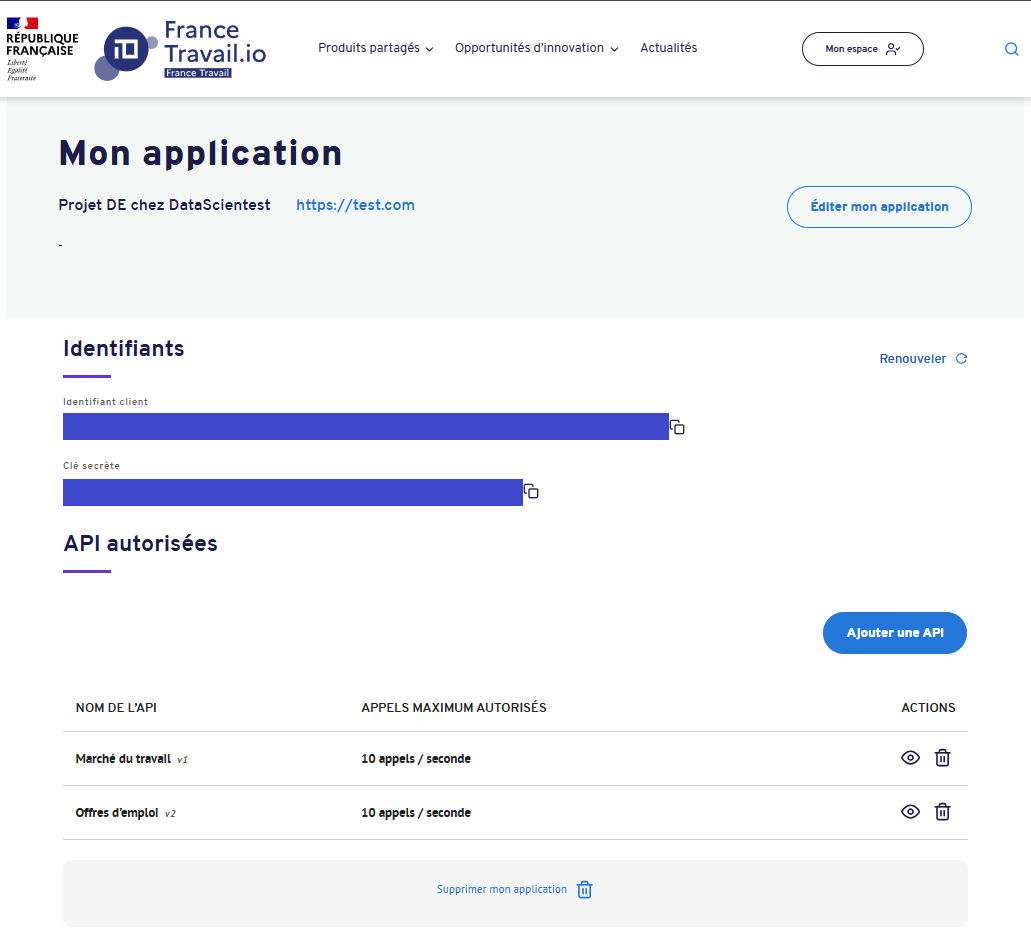
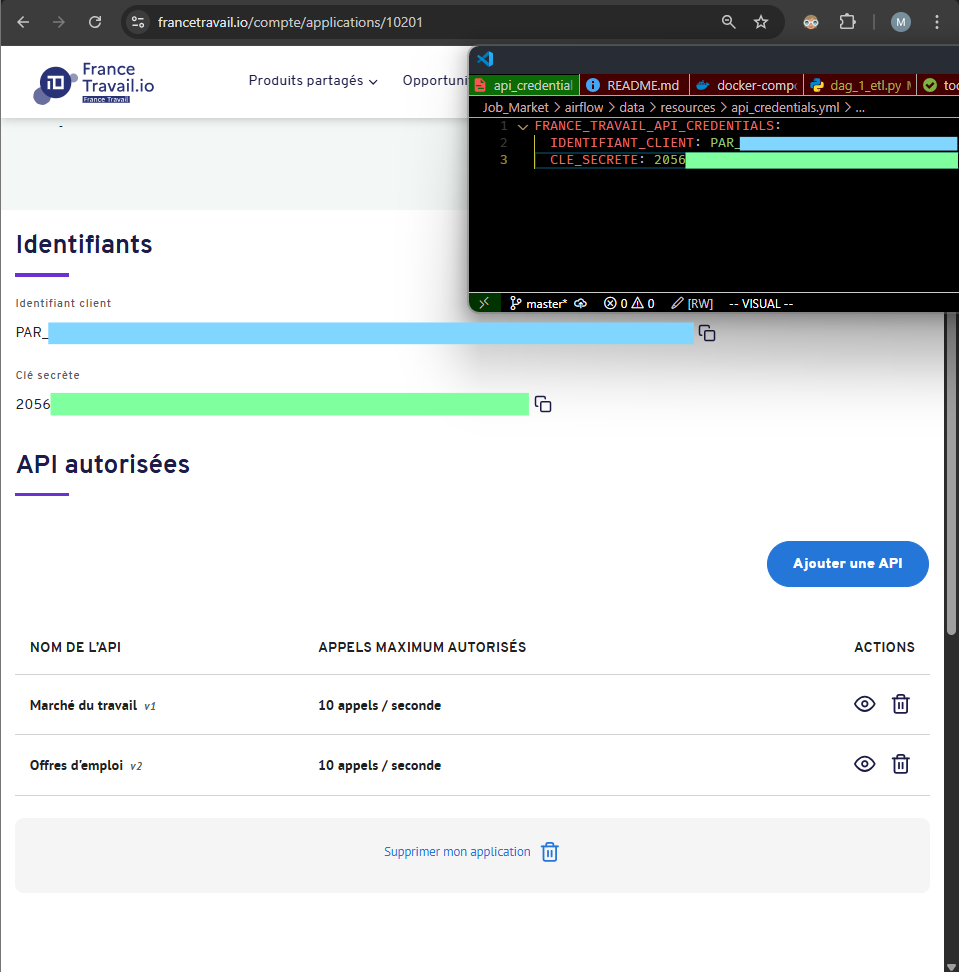
update readme suite à l'upgrade de airflow 3.0.3

diff --git a/README.md b/README.md
@@ -15,7 +15,7 @@
   - [8. Prometheus](#8-Prometheus)
   - [9. Grafana](#9-Grafana)
   - [10. Difficultés rencontrées](#10-Difficultés-rencontrées)
-  - [11. Evolution](#11-Evolution)
+  - [11. Evolutions possibles du projet](#11-Evolutions-possibles-du-projet)
 
 
 - Slideshow :
@@ -97,7 +97,7 @@
   | FastAPI           | 0.115.12 | 03/2025            | https://github.com/fastapi/fastapi/releases                        |
   | Postgres          | 16.9     | 05/2025            | https://github.com/postgres/postgres/tags                          |
   | Redis             | 8.0.2    | 05/2025            | https://github.com/redis/redis/releases                            |
-  | Airflow           | 3.0.2    | 06/2025            | https://github.com/apache/airflow/releases                         |
+  | Airflow           | 3.0.3    | 07/2025            | https://github.com/apache/airflow/releases                         |
   | StatsD-exporter   | 0.28.0   | 10/2024            | https://github.com/prometheus/statsd_exporter/releases             |
   | Node-exporter     | 1.9.1    | 04/2025            | https://github.com/prometheus/node_exporter/releases               |
   | Postgres-exporter | 0.17.1   | 02/2025            | https://github.com/prometheus-community/postgres_exporter/releases |
@@ -114,9 +114,19 @@
   git clone git@github.com:vimchun/Job-Market-in-France.git
 ```
 
-- Copier-coller les credentials (`identifiant client` + `clé secrète`) dans le fichier `airflow/data/resources/api_credentials.yml` depuis le site `https://francetravail.io/`, après avoir créé un compte :
+- Sur `https://francetravail.io/` :
+  - Créer un compte
+  - Ajouter les accès aux APIS `Marché du travail v1` et `Offres d'emploi v2` (voir screenshot)
+  - Copier-coller les credentials (`identifiant client` + `clé secrète`) dans un nouveau fichier `airflow/data/resources/api_credentials.yml` (voir screenshot)
 
-  <img src="readme_files/screenshots/misc/francetravail_io_credentials.png" alt="credentials france travail" style="width:50%"/>
+    ```yaml
+      # contenu du fichier `airflow/data/resources/api_credentials.yml`
+      FRANCE_TRAVAIL_API_CREDENTIALS:
+        IDENTIFIANT_CLIENT: <à_remplir>
+        CLE_SECRETE: <à_remplir>
+    ```
+
+    <img src="readme_files/screenshots/misc/francetravail_io_credentials.png" alt="credentials france travail" style="width:50%"/>
 
 
 - Si environnement Windows + WSL, utiliser `Docker CE` dans WSL, plutôt qu'utiliser `Docker Desktop` (voir cette [procédure](readme_files/APPENDIX.md#Installer-et-utiliser-Docker-CE-dans-WSL))
@@ -472,7 +482,7 @@ TODO : faire à la fin du projet
 
 - Au moment d'écrire ces lignes, deux branches majeures : la `2.x` et la `3.x`.
 
-- Finalement, le choix se portera sur la branche `3.x` (avec la récente `3.0.2`) qui contient des évolutions majeures (détails [ici](https://airflow.apache.org/blog/airflow-three-point-oh-is-here/)).
+- Finalement, le choix se portera sur la branche `3.x` (avec la récente `3.0.3`) qui contient des évolutions majeures (détails [ici](https://airflow.apache.org/blog/airflow-three-point-oh-is-here/)).
 
 
 ## Description du worflow des DAGs
@@ -489,11 +499,14 @@ TODO : faire à la fin du projet
 
 ### DAG 1
 
-TODO : screenshot de DAG 1 à la fin du projet
+- Vue "graph" du `DAG 1` :
 
-#### Task group "setup"
+  <img src="readme_files/screenshots/airflow/graph_dag_1.png" alt="graph du DAG 1" style="width:100%"/>
 
-##### Task group "check_files_in_folders"
+
+#### Task Group "setup"
+
+##### Sub Task Group "check_files_in_folders"
 
 
 - `S1_delete_all_in_one_json` :
@@ -516,7 +529,7 @@ TODO : screenshot de DAG 1 à la fin du projet
       - Si un des fichiers n'existe pas : fin du DAG (exception levée).
 
 
-##### Task group "after_checks"
+##### Sub Task Group "after_checks"
 
 - `S2_remove_all_json_files` :
 
@@ -536,7 +549,7 @@ TODO : screenshot de DAG 1 à la fin du projet
 
 
 
-#### Task group "ETL"
+#### Task Group "ETL"
 
 - `A1_get_offers` :
 
@@ -569,7 +582,7 @@ TODO : screenshot de DAG 1 à la fin du projet
   - Vérification du nombre de fichiers json dans le `dossier_B`.
 
 
-##### Task group "0_file_in_folder"
+##### Sub Task Group "0_file_in_folder"
 
 - Cas où il n'y a pas de fichier json dans le `dossier_B` (variable `count=0`).
 
@@ -583,7 +596,7 @@ TODO : screenshot de DAG 1 à la fin du projet
     - Renommage du fichier `all_in_one.json` en `date__extraction_occurence_1.json` (car il s'agit de la première extraction)
 
 
-##### Task group "1_file_in_folder"
+##### Sub Task Group "1_file_in_folder"
 
 - Cas où il y a 1 fichier json `fichier_existant.json` dans le `dossier_B` (variable `count=1`).
 
@@ -614,9 +627,11 @@ TODO : screenshot de DAG 1 à la fin du projet
 
 ### DAG 2
 
+- Vue "graph" du `DAG 2` :
+
 TODO : screenshot de DAG 2 à la fin du projet
 
-#### Task group "setup"
+#### Task Group "SETUP"
 
 - `check_only_one_json_in_folder` :
 
@@ -654,7 +669,7 @@ TODO : screenshot de DAG 2 à la fin du projet
 
 
 
-#### Task group "without_junction"
+#### Task Group "INSERT_INTO_TABLES_WITHOUT_JUNCTION"
 
 Ce groupe exécute en parallèle les tâches suivantes, qui consistent à récupérer les informations dans les fichiers json dédiés (générés par la tâche `split_large_json`) et exécutent des `INSERT INTO` dans les tâches dédiés :
 
@@ -666,18 +681,17 @@ Ce groupe exécute en parallèle les tâches suivantes, qui consistent à récup
 
 
 
-#### Task group "with_junction"
+#### Task group "INSERT_INTO_TABLES_WITH_JUNCTION"
 
 - Ce groupe exécute les actions suivantes (prenons pour exemple, `Competence` puis `Offre_Competence`) :
 
-  - 1. `INSERT INTO` pour la table de dimension
-  - 2. Requête pour connaitre la correspondance entre `offre_id` et `competence_id` avant de faire des `INSERT INTO` pour la table de liaison
+  - 1. `INSERT INTO` pour la table de dimension `Competence`
+  - 2. Requête pour connaitre la correspondance entre `offre_id` et `competence_id` avant de faire des `INSERT INTO` pour la table de liaison `Offre_Competence`
   - 3. Conservation de l'offre la plus récente, si `competence_id` a évolué
 
 
 - Même chose pour :
 
-  - `Competence` puis `Offre_Competence`
   - `Experience` puis `Offre_Experience`
   - `Formation` puis `Offre_Formation`
   - `QualiteProfessionnelle` puis `Offre_QualiteProfessionnelle`
@@ -686,9 +700,9 @@ Ce groupe exécute en parallèle les tâches suivantes, qui consistent à récup
   - `PermisConduire` puis `Offre_PermisConduire`
 
 
-#### Task group "transformations"
+#### Task group "TRANSFORMATIONS"
 
-- Plusieurs `SQLExecuteQueryOperator()` qui exécutent séquentiellement les tâches suivantes, dont les fichiers SQL du dossier `airflow/dags/sql` sont :
+- `SQLExecuteQueryOperator()` qui exécutent séquentiellement les tâches suivantes, dont les fichiers SQL du dossier `airflow/dags/sql` sont :
 
   - `update_descriptionoffre_metier_data_DE`
   - `update_descriptionoffre_metier_data_DA`
@@ -879,3 +893,9 @@ TODO : refaire le fichier quand les DAGs seront figés
 
     - algorithme pour avoir le salaire annuel min et max
       - détails [ici](readme_files/APPENDIX.md#attributs-salaire_min-et-salaire_max)
+
+
+
+# 11. Evolutions possibles du projet
+
+todo
